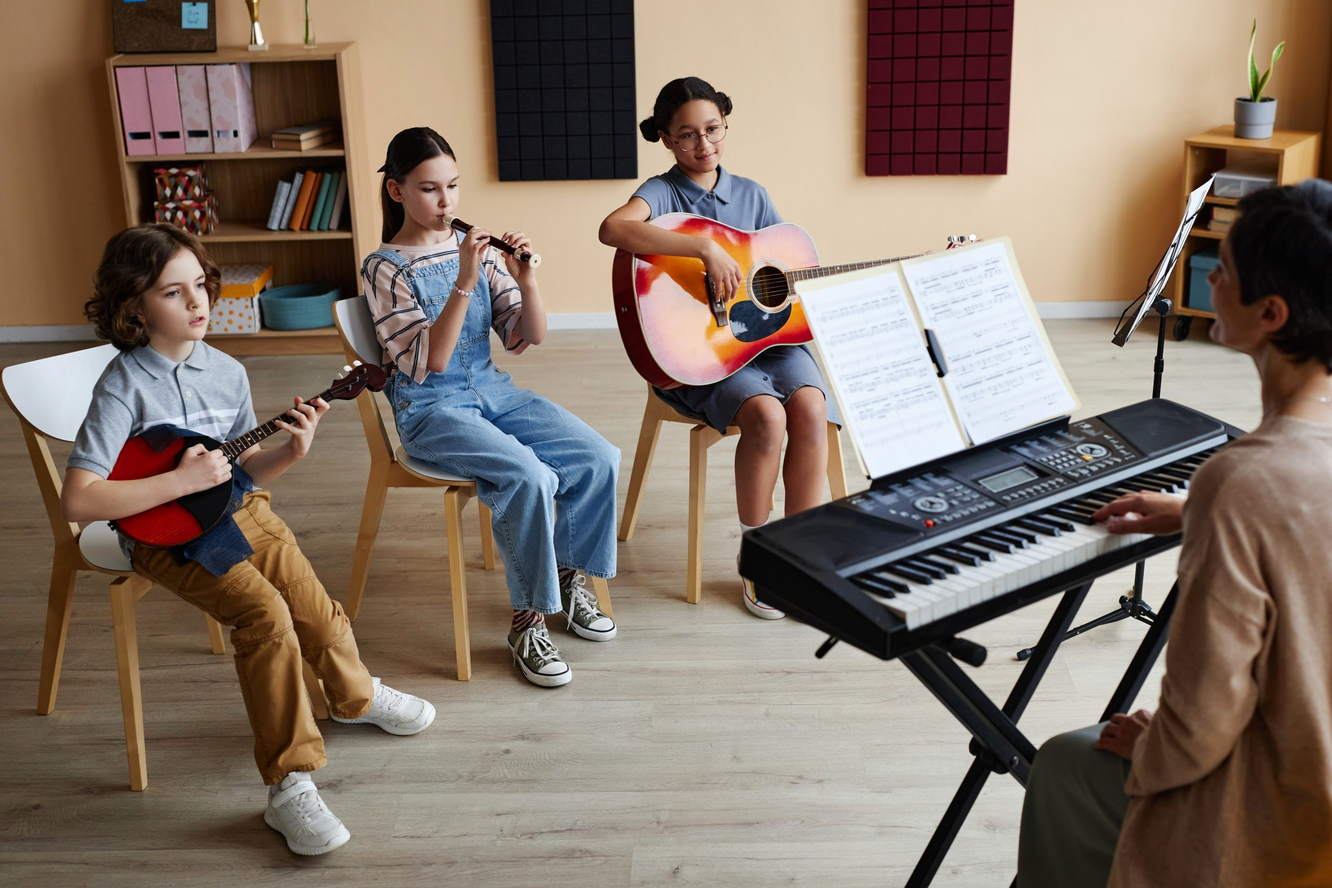
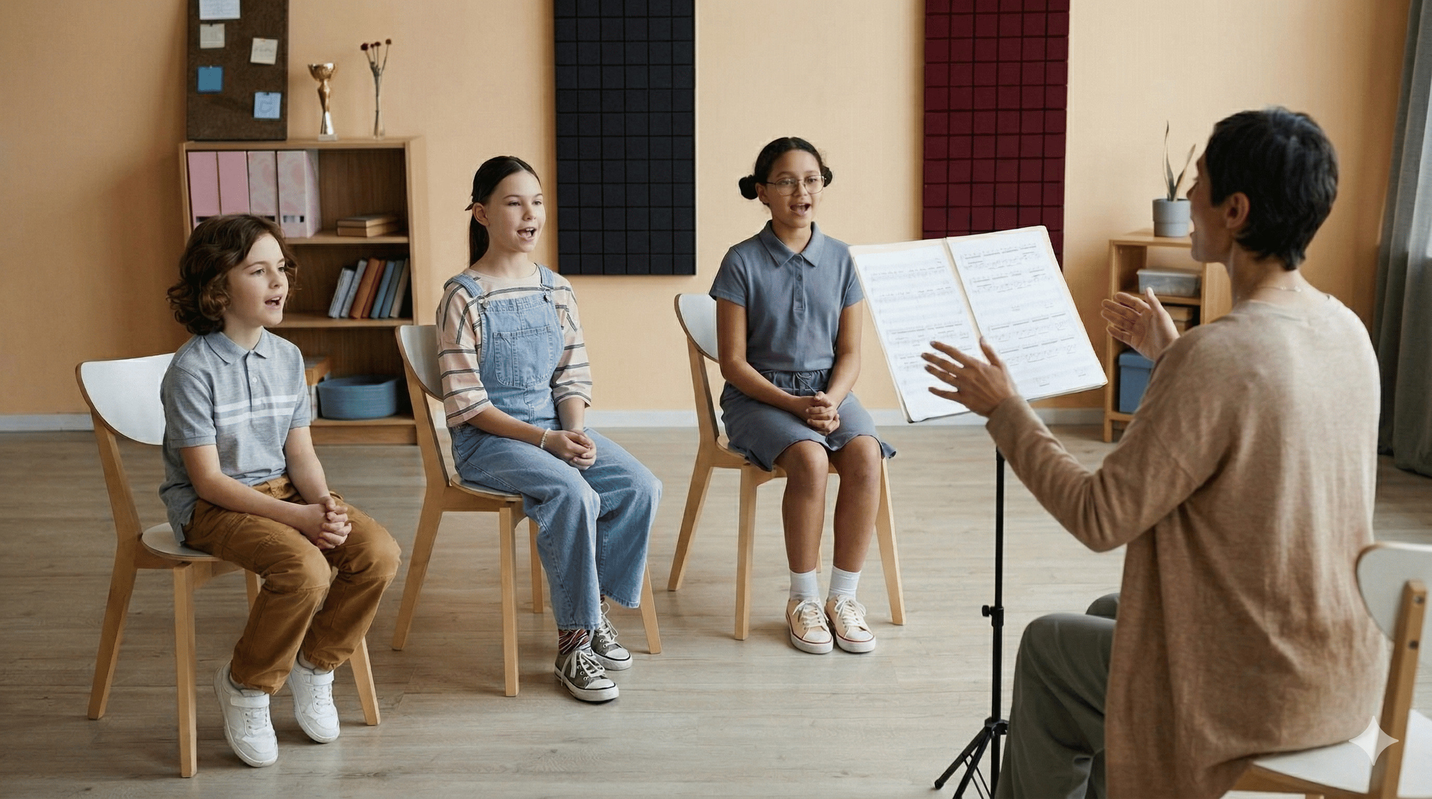
Add files via upload

diff --git a/index.html b/index.html
@@ -692,7 +692,7 @@ footer{
 
 <!-- ══ LOGO INTRO OVERLAY ══ -->
 <div id="intro-overlay">
-  <img src="logo.png" alt="Kala Siri Music Academy Logo" onerror="this.style.display='none'">
+  <img src="logo.jpeg" alt="Kala Siri Music Academy Logo" onerror="this.style.display='none'">
   <div class="intro-tagline">Kalasiri School of Music</div>
   <div class="intro-bar"></div>
 </div>
@@ -812,12 +812,17 @@ footer{
           <div class="special-box-title">👶 Kids Batch (Age 4–6)</div>
           <div class="special-box-desc">Special exclusive batches designed for very young learners aged 4 to 6 years</div>
         </div>
+       
         <div class="special-box">
           <div class="special-box-title">🏠 Housewives Batch</div>
           <div class="special-box-desc">Dedicated batches for housewives — flexible timings, nurturing pace</div>
         </div>
         <div class="special-box">
-          <div class="special-box-title">🎭 Performance Stages</div>
+          <div class="special-box-title">All Age Groups (age 4-60)</div>
+          <div class="special-box-desc">Regular batches for all age groups depending on their stream of interest in music</div>
+        </div>
+        <div class="special-box">
+          <div class="special-box-title">🎭 Stage Perfomances</div>
           <div class="special-box-desc">Prestigious platforms for students to showcase their talent publicly</div>
         </div>
         <div class="special-box">
@@ -895,7 +900,7 @@ footer{
     <div class="class-card featured">
       <span class="class-emoji">🎤</span>
       <div class="class-name">Carnatic Classical Singing</div>
-      <p class="class-desc">The foundation of Indian classical music — learn ragas, talas, gamakas, and voice culture through authentic Carnatic methods.</p>
+      <p class="class-desc">Carnatic Music — learn ragas, talas, gamakas, and voice culture through authentic Carnatic methods.</p>
       <span class="class-tag">Classical · Core</span>
     </div>
     <div class="class-card">
@@ -950,14 +955,15 @@ footer{
 </section>
 
 <!-- ══ SUMMER CAMP ══ -->
-<div id="summer-camp">
+<div id="Devara Naama Workshop">
   <div>
     <div class="camp-badge">🌟 Limited Seats Available</div>
-    <div class="camp-title">Summer <span>Music Camp</span></div>
-    <p class="camp-desc">Nurture your child's talent &amp; cultural roots this summer. A vibrant musical experience for young learners!</p>
+    <div class="camp-title">Devara <span>Naama Workshop</span></div>
+    <p class="camp-desc">3 days devara nama workshop for all age groups on 1 st,2nd and 3rd of May
+Book your slots at the earliest,A soulful Devara Naama Workshop dedicated to learning and experiencing the beauty of devotional compositions. Participants will explore traditional Kannada bhajans, understand their meanings, and learn proper singing techniques in a peaceful and spiritual environment.t</p>
   </div>
   <div class="camp-details">
-    <div class="camp-date"><small>Duration</small>1st April – 20th April 2026</div>
+    <div class="camp-date"><small>Duration</small>1st May –  3rd May 2026</div>
     <a href="https://wa.me/919481489959" target="_blank" class="btn-primary">Reserve a Seat →</a>
   </div>
 </div>
@@ -1189,7 +1195,7 @@ document.addEventListener('click', e => {
 const images = [
   '1.jpeg','2.jpeg','3.jpeg','4.jpeg','5.jpeg',
   '6.jpeg','7.jpeg','8.jpeg','9.jpeg','10.jpeg',
-  '11.jpeg','12.jpeg'
+  '11.jpeg','12.jpeg','13.jpeg','14.jpeg','15.jpeg','16.jpeg','17.jpeg','18.jpeg','19.jpeg','20.jpeg','21.jpeg','22.jpeg','23.jpeg','24.jpeg','25.jpeg','26.jpeg','27.jpeg','28.jpeg','29.jpeg','30.jpeg',
 ];
 
 // Build items HTML
